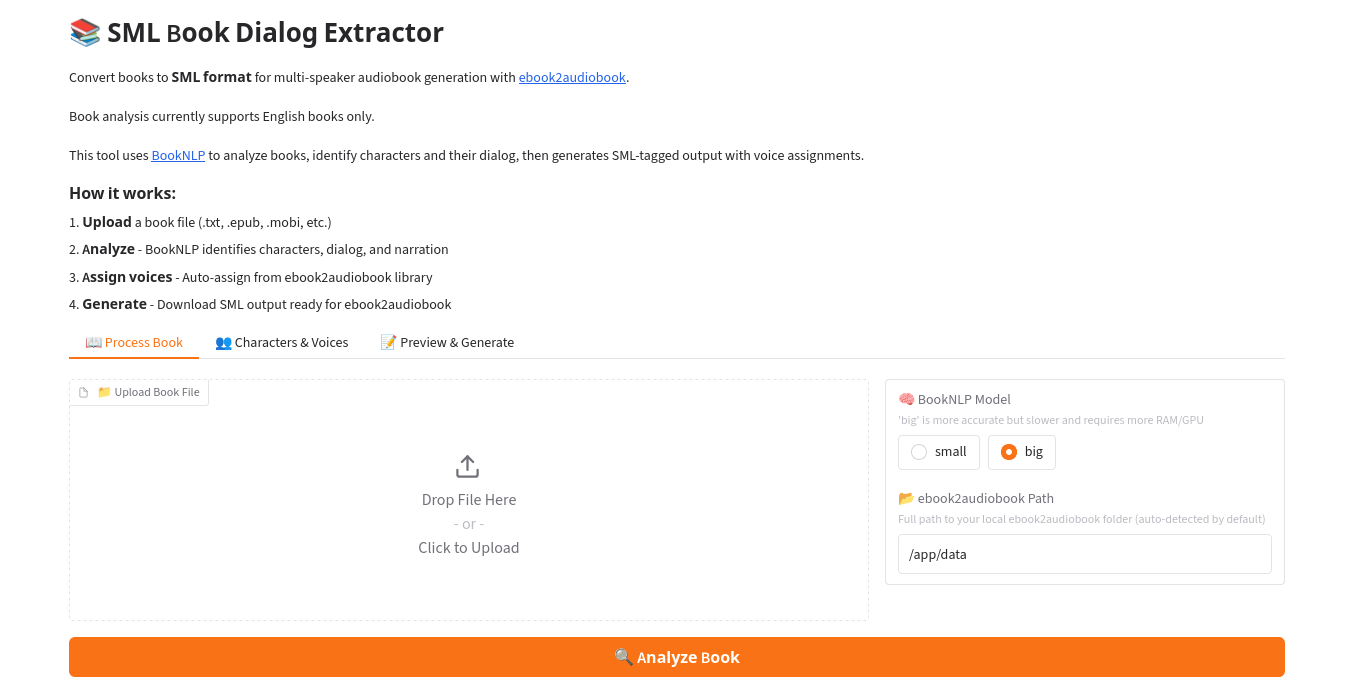
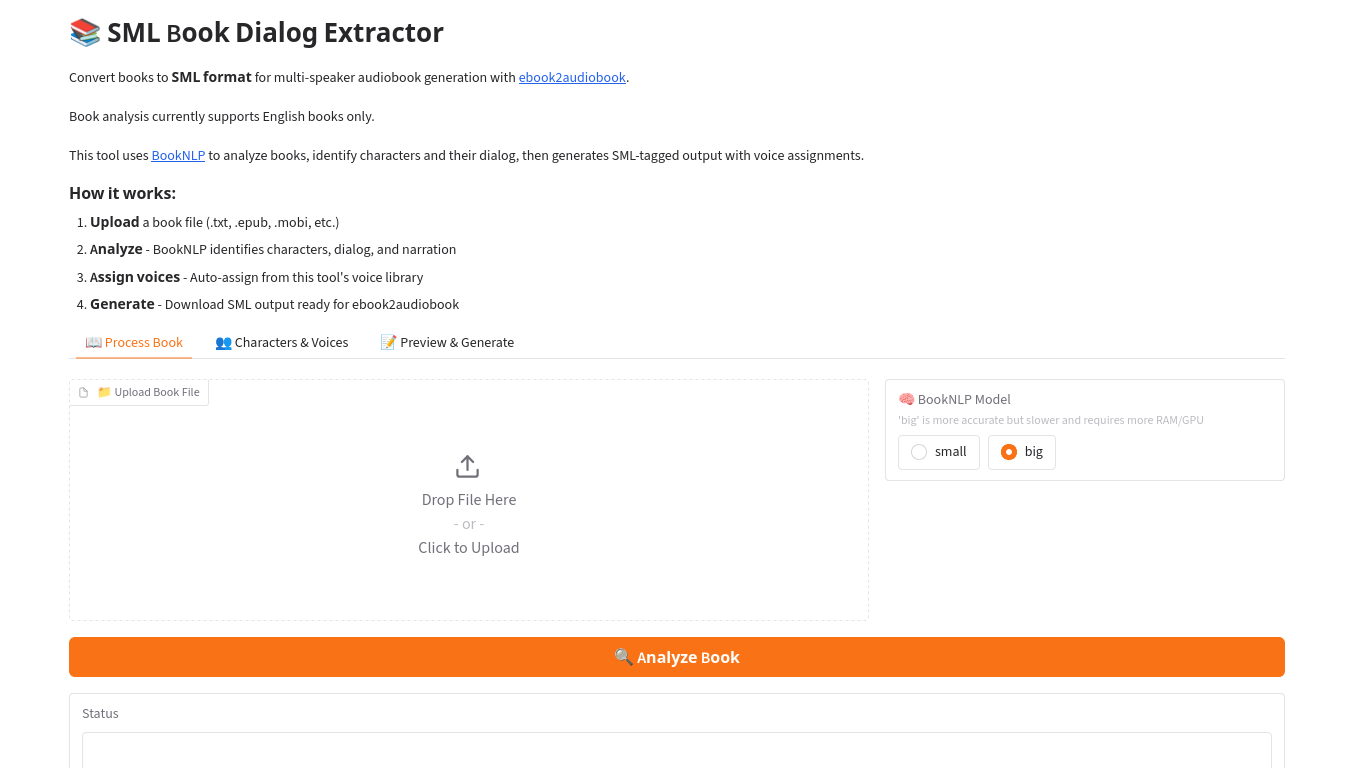
Remove E2A checkout path controls from SML

diff --git a/web_gui.py b/web_gui.py
@@ -57,14 +57,13 @@ def _voice_display_label(voice_path: str) -> str:
 def process_book(
     input_file:str|None,
     model_size:str,
-    library_root:str,
     progress:gr.Progress=gr.Progress(),
 )->tuple[object,...]:
     """Process a book file through BookNLP and extract characters."""
     if input_file is None:
         raise gr.Error("Please upload a book file.")
 
-    library_root = os.path.expanduser((library_root or '').strip() or str(configured_library_root()))
+    library_root = str(configured_library_root())
     try:
         ensure_voice_library(library_root)
     except Exception as exc:
@@ -96,7 +95,7 @@ def process_book(
     progress(0.15, desc=f"Running BookNLP ({model_size} model)... This may take a while.")
 
     try:
-        result = run_booknlp(txt_path, booknlp_dir, model_size, e2a_path=library_root)
+        result = run_booknlp(txt_path, booknlp_dir, model_size, data_root=library_root)
     except Exception as e:
         raise gr.Error(f"BookNLP processing failed: {e}")
 
@@ -116,7 +115,7 @@ def process_book(
 
     progress(0.7, desc="Scanning voice library...")
 
-    # Scan the selected voice library
+    # Scan this tool's voice library
     voice_library = scan_voice_library(library_root)
     _session_state["voice_library"] = voice_library
     _session_state["library_root"] = library_root
@@ -293,15 +292,8 @@ def generate_output(progress:gr.Progress=gr.Progress())->tuple[str,str,str]:
     )
 
 
-def create_app(default_library_root:str='')->gr.Blocks:
-    if not default_library_root:
-        default_library_root = str(configured_library_root())
-    
-    """Create the Gradio web interface.
-
-    Args:
-        default_library_root: Default folder for voices and BookNLP models.
-    """
+def create_app()->gr.Blocks:
+    """Create the Gradio web interface."""
 
     with gr.Blocks(
         title="SML Book Dialog Extractor",
@@ -322,7 +314,7 @@ def create_app(default_library_root:str='')->gr.Blocks:
             ### How it works:
             1. **Upload** a book file (.txt, .epub, .mobi, etc.)
             2. **Analyze** - BookNLP identifies characters, dialog, and narration
-            3. **Assign voices** - Auto-assign from the selected voice library
+            3. **Assign voices** - Auto-assign from this tool's voice library
             4. **Generate** - Download SML output ready for ebook2audiobook
             """
         )
@@ -342,12 +334,6 @@ def create_app(default_library_root:str='')->gr.Blocks:
                         label="🧠 BookNLP Model",
                         info="'big' is more accurate but slower and requires more RAM/GPU",
                     )
-                    library_root = gr.Textbox(
-                        label="📂 Voice Library Folder",
-                        placeholder="/path/to/voice-library-data",
-                        value=default_library_root,
-                        info="Stores voices and BookNLP models here; an E2A checkout can be used instead",
-                    )
 
             process_btn = gr.Button("🔍 Analyze Book", variant="primary", size="lg")
             status_output = gr.Textbox(label="Status", interactive=False)
@@ -356,7 +342,7 @@ def create_app(default_library_root:str='')->gr.Blocks:
             gr.Markdown(
                 "After analyzing a book, all detected characters are listed below with their "
                 "**inferred gender** and **age category** from BookNLP. Voices are auto-assigned "
-                "from the selected voice library. Select any character to change its voice."
+                "from this tool's voice library. Select any character to change its voice."
             )
 
             char_table = gr.Dataframe(
@@ -415,7 +401,7 @@ def create_app(default_library_root:str='')->gr.Blocks:
         # Process book → populate character table, dropdowns, and preview
         process_btn.click(
             fn=process_book,
-            inputs=[input_file, model_size, library_root],
+            inputs=[input_file, model_size],
             outputs=[
                 status_output,
                 char_table,

diff --git a/cli.py b/cli.py
@@ -34,7 +34,7 @@ Examples:
   python cli.py input_book.txt
 
   # With custom output directory
-  python cli.py input_book.txt --library-root ~/ebook2audiobook -o output/
+  python cli.py input_book.txt -o output/
 
   # Process an epub file (requires Calibre)
   python cli.py mybook.epub
@@ -63,13 +63,6 @@ Examples:
         choices=["small", "big"],
         default="big",
         help="BookNLP model size (default: big)",
-    )
-    parser.add_argument(
-        "--library-root", "--e2a-path",
-        dest="library_root",
-        default=str(configured_library_root()),
-        help="Folder containing voices/ and models/ (default: this tool's data/ folder). "
-        "--e2a-path remains an alias for an existing E2A checkout.",
     )
     parser.add_argument(
         "--voices-dir",
@@ -112,10 +105,8 @@ Examples:
 
     args = parser.parse_args()
 
-    # Expand ~ in all path arguments
-    args.library_root = os.path.expanduser(args.library_root)
-    if not args.library_root.strip():
-        parser.error("--library-root must not be empty")
+    # Voice files and BookNLP models live in this tool's own data directory.
+    args.library_root = str(configured_library_root())
     if args.output_dir:
         args.output_dir = os.path.expanduser(args.output_dir)
     if args.voices_dir:
@@ -186,7 +177,7 @@ def _run_headless(args:argparse.Namespace)->None:
         progress(f"Text file: {txt_file}", 5)
 
         booknlp_dir = os.path.join(output_dir, "booknlp")
-        result = run_booknlp(txt_file, booknlp_dir, args.model, progress, e2a_path=args.library_root)
+        result = run_booknlp(txt_file, booknlp_dir, args.model, progress, data_root=args.library_root)
         book_id = result["book_id"]
 
     # Step 2: Load BookNLP data
@@ -206,7 +197,7 @@ def _run_headless(args:argparse.Namespace)->None:
         print(f"  {i + 1}. {name} (gender: {gender}, age: {age})")
     print()
 
-    # Step 4: Auto-assign voices from the selected voice library
+    # Step 4: Auto-assign voices from this tool's voice library
     voice_assignments = {}
     progress("Scanning voice library...", 75)
     voice_library = scan_voice_library(args.library_root, args.language)
@@ -252,7 +243,7 @@ def _launch_gui(args:argparse.Namespace)->None:
         import gradio as gr
         from web_gui import create_app
 
-        app = create_app(default_library_root=args.library_root)
+        app = create_app()
         app.launch(
             server_name=args.host,
             server_port=args.port,

diff --git a/sml_extractor/core.py b/sml_extractor/core.py
@@ -9,10 +9,10 @@ from pathlib import Path
 from typing import Callable
 
 
-def configure_booknlp_cache(e2a_path:str|Path|None=None)->Path:
+def configure_booknlp_cache(data_root:str|Path|None=None)->Path:
     '''Configure the Hugging Face cache before its first import.'''
-    if e2a_path:
-        repo_dir = Path(e2a_path).expanduser().resolve()
+    if data_root:
+        repo_dir = Path(data_root).expanduser().resolve()
     else:
         from .voice_library import configured_library_root
         repo_dir = configured_library_root()
@@ -129,7 +129,7 @@ def run_booknlp(
     output_dir:str,
     model:str='small',
     progress_callback:Callable[[str,int],None]|None=None,
-    e2a_path:str|Path|None=None,
+    data_root:str|Path|None=None,
 )->dict[str,str]:
     """Run BookNLP pipeline on a text file and return extracted data.
 
@@ -138,7 +138,7 @@ def run_booknlp(
         output_dir: Directory for BookNLP output files.
         model: BookNLP model size ('small' or 'big').
         progress_callback: Optional callable(message, pct) for progress updates.
-        e2a_path: Voice-library root for the model cache.
+        data_root: This tool's data directory for the model cache.
 
     Returns:
         Dict with keys: 'book_id', 'output_dir', 'characters', 'tokens_file',
@@ -147,7 +147,7 @@ def run_booknlp(
     Raises:
         RuntimeError: If BookNLP or its dependencies are not properly installed.
     """
-    model_dir = configure_booknlp_cache(e2a_path)
+    model_dir = configure_booknlp_cache(data_root)
     # Pre-check installation before attempting import
     ok, msg = check_booknlp_installation()
     if not ok:

diff --git a/sml_extractor/voice_matcher.py b/sml_extractor/voice_matcher.py
@@ -14,11 +14,11 @@ AGE_CATEGORIES = {"child", "teen", "adult", "elder"}
 GENDERS = {"male", "female"}
 
 
-def scan_voice_library(ebook2audiobook_path: str, language: str = "eng") -> dict:
-    """Scan the ebook2audiobook voice library and return available voices.
+def scan_voice_library(library_root: str, language: str = "eng") -> dict:
+    """Scan this tool's voice library and return available voices.
 
     Args:
-        ebook2audiobook_path: Path to the ebook2audiobook repository root.
+        library_root: Directory containing voices/.
         language: Language code (default: 'eng').
 
     Returns:
@@ -30,7 +30,7 @@ def scan_voice_library(ebook2audiobook_path: str, language: str = "eng") -> dict
             "elder": {"male": [...], "female": [...]},
         }
     """
-    voices_dir = os.path.join(ebook2audiobook_path, "voices", language)
+    voices_dir = os.path.join(library_root, "voices", language)
     library = {}
 
     if not os.path.isdir(voices_dir):

diff --git a/sml_extractor/sml_generator.py b/sml_extractor/sml_generator.py
@@ -6,9 +6,9 @@ import re
 from pathlib import Path
 
 
-def portable_voice_assignments(voice_assignments:dict[str,str], e2a_path:str)->dict[str,str]:
-    """Express library voices relative to the E2A root used for synthesis."""
-    voices_root = Path(e2a_path).expanduser().resolve() / 'voices'
+def portable_voice_assignments(voice_assignments:dict[str,str], library_root:str)->dict[str,str]:
+    """Express library voices as paths relative to a voices/ folder."""
+    voices_root = Path(library_root).expanduser().resolve() / 'voices'
     portable:dict[str,str] = {}
     for character, voice_path in voice_assignments.items():
         try:

diff --git a/sml_extractor/voice_library.py b/sml_extractor/voice_library.py
@@ -72,6 +72,6 @@ def ensure_voice_library(
 
 
 def configured_library_root()->Path:
-    """Return this tool's data directory, or an explicitly selected voice root."""
-    configured = os.environ.get('SML_DATA_DIR') or os.environ.get('E2A_PATH')
+    """Return this tool's data directory, optionally relocated for Docker."""
+    configured = os.environ.get('SML_DATA_DIR')
     return Path(configured).expanduser().resolve() if configured else DEFAULT_DATA_DIR

diff --git a/README.md b/README.md
@@ -29,7 +29,7 @@ uv pip install "$(python -m spacy info en_core_web_sm --url)"
 python cli.py --gui
 ```
 
-On Windows, activate with `.venv\Scripts\activate` instead. Native runs also download voices into `data/voices/` when needed and store BookNLP models in `data/models/`. To use an existing E2A voice library instead, select the E2A checkout in the GUI or pass `--library-root /path/to/ebook2audiobook` on the CLI. Install [Calibre](https://calibre-ebook.com/download) to read formats other than `.txt` locally.
+On Windows, activate with `.venv\Scripts\activate` instead. Native runs download voices into `data/voices/` when needed and store BookNLP models in `data/models/`. Neither the GUI nor CLI needs an Ebook2audiobook path. Install [Calibre](https://calibre-ebook.com/download) to read formats other than `.txt` locally.
 
 ## Make an audiobook with E2A
 
